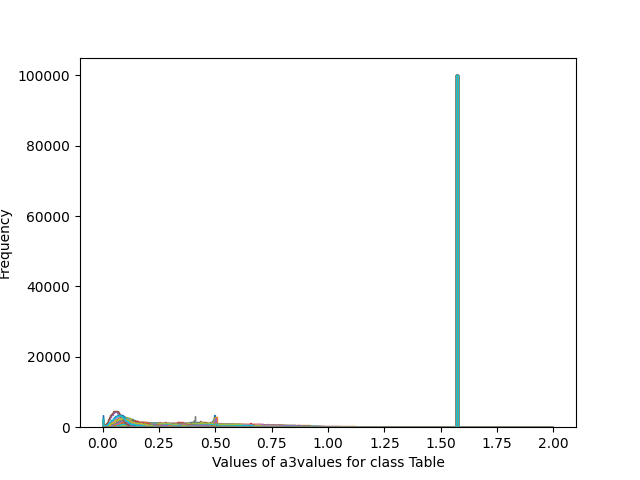
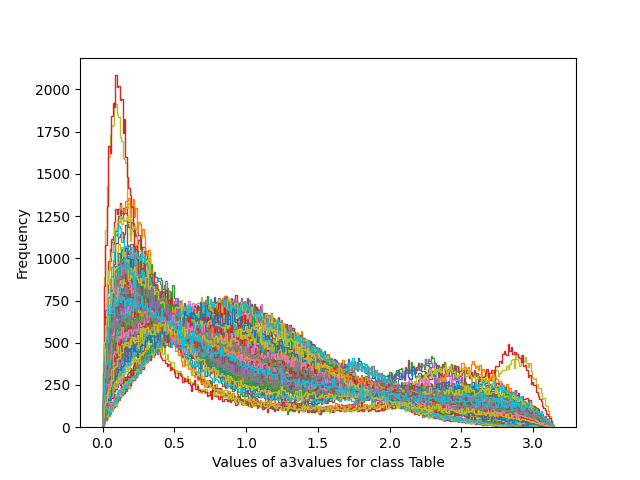
merged files, corrected a3, binned values

diff --git a/HistogramBinner.py b/HistogramBinner.py
@@ -2,65 +2,63 @@ import json
 import matplotlib.pyplot as plt
 import numpy as np
 import math
-
-path = "./database/histValues18.json"
-
-with open(path, 'r') as f:
-  data = json.load(f)
+from pathlib import Path
 
 
-d1values = np.array([x["d1"] for x in data])
-d2values = np.array([x["d2"] for x in data])
-d3values = np.array([x["d3"] for x in data])
-d4values = np.array([x["d4"] for x in data])
-a3values = np.array([x["a3"] for x in data])
-classes = [x["class"] for x in data]
 
-print(classes)
-print(np.max(d3values))
-#Perform so tests in order to check if the calculations were correct
-d1RangeCheck = (d1values >= 0) & (d1values <= 1)
-d2RangeCheck = (d2values >= 0) & (d2values <= np.sqrt(3))
-d3RangeCheck = (d3values >= 0) & (d3values <= (0.5*np.sqrt(2))) #the area spanning 2 corners and 1 corner in other edge diagonally
-d4RangeCheck = (d4values >= 0) & (d4values <= 1)
 
-print(d1RangeCheck.all())
-print(d2RangeCheck.all())
-# assert d3RangeCheck.all()
-print(d4RangeCheck.all())
+def binfeatures():
+    #a3 path (since a3 was broke in 1st computation this is solo a3)
+    path = './database/combinedValues.json'
+    nrbins = 10
+    binnedOutPut = []
+    with open(path, 'r') as f:
+        data = json.load(f)
+    
+    pathvalues = np.array([x["path"] for x in data])
+    d1values = np.array([x["d1"] for x in data])
+    d2values = np.array([x["d2"] for x in data])
+    d3values = np.array([x["d3"] for x in data])
+    d4values = np.array([x["d4"] for x in data])
+    a3values = np.array([x["a3"] for x in data])
+    classes = [x["class"] for x in data]
+    print(classes)
+    dbins = binvalues(0, 1, nrbins)
+    d2bin = binvalues(0, np.sqrt(3), nrbins)
+    a3bin = binvalues(0, math.pi, nrbins)
 
-class_name = classes[1]
-for x in range(len(d1values)):
-  plt.hist(d1values[x], range=(0, 1), bins=int(math.sqrt(len(d1values[x]))), histtype='step')
-  plt.xlabel(f"Values of d1values for class {class_name}") # TODO should e.g. be "D1"
-  plt.ylabel("Frequency")
-  plt.savefig(f"d1_{class_name}.png") # e.g. D1_Airplane.png
-#plt.show()  
+    #create bin nr instead of value.
+    d1binlist = np.digitize(d1values, dbins) -1
+    d2binlist = np.digitize(d2values, d2bin) -1
+    d3binlist = np.digitize(d3values, dbins) -1
+    d4binlist = np.digitize(d4values, dbins) -1
+    a3binlist = np.digitize(a3values, a3bin) -1
 
-for x in range(len(d2values)):
-  plt.hist(d2values[x], range=(0, np.sqrt(3)), bins=int(math.sqrt(len(d2values[x]))), histtype='step')
-  plt.xlabel(f"Values of d2values for class {class_name}") # TODO should e.g. be "D1"
-  plt.ylabel("Frequency")
-  plt.savefig(f"d2_{class_name}.png") # e.g. D2_Airplane.png
-#plt.show() 
+    #print(a3binlist)
+    for x in range(len(a3values)):
+        countValuesa3 = []
+        countvaluesd1 = []
+        countvaluesd2 = []
+        countvaluesd3 = []
+        countvaluesd4 = []
+        for bin in range(nrbins):
+            countValuesa3.append(np.count_nonzero(a3binlist[x] == bin))
+            countvaluesd1.append(np.count_nonzero(d1binlist[x] == bin))
+            countvaluesd2.append(np.count_nonzero(d2binlist[x] == bin))
+            countvaluesd3.append(np.count_nonzero(d3binlist[x] == bin))
+            countvaluesd4.append(np.count_nonzero(d4binlist[x] == bin))
+        binnedOutPut.append({"path": pathvalues[x], "class": classes[x], "d1": countvaluesd1, "d2": countvaluesd2, "d3": countvaluesd3, "d4": countvaluesd4, "a3": countValuesa3})
+    return binnedOutPut
 
-for x in range(len(d3values)):
-  plt.hist(d3values[x], range=(0, 1), bins=int(math.sqrt(len(d3values[x]))), histtype='step')
-  plt.xlabel(f"Values of d3values for class {class_name}") # TODO should e.g. be "D1"
-  plt.ylabel("Frequency")
-  plt.savefig(f"d3_{class_name}.png") # e.g. D3_Airplane.png
-#plt.show()  
+def binvalues(min,max, nrbins):
+    binlist = np.arange(min, (max+((max-min)/nrbins)), ((max-min)/nrbins))
+    return binlist
 
-for x in range(len(d4values)):
-  plt.hist(d4values[x], range=(0, 1), bins=int(math.sqrt(len(d4values[x]))), histtype='step')
-  plt.xlabel(f"Values of d4values for class {class_name}") # TODO should e.g. be "D1"
-  plt.ylabel("Frequency")
-  plt.savefig(f"d4_{class_name}.png") # e.g. D4_Airplane.png
-#plt.show()  
+def jsonPrint(binlist):
+    with open("./database/binnedHistValues.json", 'w') as output_file:
+        json.dump(binlist, output_file)
 
-for x in range(len(a3values)):
-  plt.hist(a3values[x], range=(0, 2), bins=int(math.sqrt(len(a3values[x]))), histtype='step')
-  plt.xlabel(f"Values of a3values for class {class_name}") # TODO should e.g. be "D1"
-  plt.ylabel("Frequency")
-  plt.savefig(f"a3_{class_name}.png") # e.g. a3_Airplane.png
-#plt.show() 
+if __name__ == "__main__":
+    binlist = binfeatures()
+    jsonPrint(binlist)
+    

diff --git a/HistogramGrapher.py b/HistogramGrapher.py
@@ -1,0 +1,68 @@
+import json
+import matplotlib.pyplot as plt
+import numpy as np
+import math
+from pathlib import Path
+
+pathList = list(Path('./database/').rglob('*.json'))
+for path in pathList:
+  with open(path, 'r') as f:
+    data = json.load(f)
+
+
+  #d1values = np.array([x["d1"] for x in data])
+  #d2values = np.array([x["d2"] for x in data])
+  #d3values = np.array([x["d3"] for x in data])
+  #d4values = np.array([x["d4"] for x in data])
+  a3values = np.array([x["a3"] for x in data])
+  classes = [x["class"] for x in data]
+  print(classes)
+  #Perform so tests in order to check if the calculations were correct
+  #d1RangeCheck = (d1values >= 0) & (d1values <= 1)
+  #d2RangeCheck = (d2values >= 0) & (d2values <= np.sqrt(3))
+  #d3RangeCheck = (d3values >= 0) & (d3values <= (0.5*np.sqrt(2))) #the area spanning 2 corners and 1 corner in other edge diagonally
+  #d4RangeCheck = (d4values >= 0) & (d4values <= 1)
+  #a3Rangecheck = (a3values >= 0) & (a3values <= math.pi)
+  
+  #print(d1RangeCheck.all())
+  #print(d2RangeCheck.all())
+  #print(d3RangeCheck.all())
+  #print(d4RangeCheck.all())
+  #print(a3RangeCheck.all())
+
+  class_name = classes[1]
+  for x in range(len(a3values)):
+    plt.hist(a3values[x], range=(0, math.pi), bins=int(math.sqrt(len(a3values[x]))), histtype='step')
+    plt.xlabel(f"Values of a3values for class {class_name}") # TODO should e.g. be "D1"
+    plt.ylabel("Frequency")
+    plt.savefig(f"a3_{class_name}.png") # e.g. a3_Airplane.png
+  #plt.show()
+'''
+  for x in range(len(d1values)):
+    plt.hist(d1values[x], range=(0, 1), bins=int(math.sqrt(len(d1values[x]))), histtype='step')
+    plt.xlabel(f"Values of d1values for class {class_name}") # TODO should e.g. be "D1"
+    plt.ylabel("Frequency")
+    plt.savefig(f"d1_{class_name}.png") # e.g. D1_Airplane.png
+  #plt.show()  
+
+  for x in range(len(d2values)):
+    plt.hist(d2values[x], range=(0, np.sqrt(3)), bins=int(math.sqrt(len(d2values[x]))), histtype='step')
+    plt.xlabel(f"Values of d2values for class {class_name}") # TODO should e.g. be "D1"
+    plt.ylabel("Frequency")
+    plt.savefig(f"d2_{class_name}.png") # e.g. D2_Airplane.png
+  #plt.show() 
+
+  for x in range(len(d3values)):
+    plt.hist(d3values[x], range=(0, 1), bins=int(math.sqrt(len(d3values[x]))), histtype='step')
+    plt.xlabel(f"Values of d3values for class {class_name}") # TODO should e.g. be "D1"
+    plt.ylabel("Frequency")
+    plt.savefig(f"d3_{class_name}.png") # e.g. D3_Airplane.png
+  #plt.show()  
+
+  for x in range(len(d4values)):
+    plt.hist(d4values[x], range=(0, 1), bins=int(math.sqrt(len(d4values[x]))), histtype='step')
+    plt.xlabel(f"Values of d4values for class {class_name}") # TODO should e.g. be "D1"
+    plt.ylabel("Frequency")
+    plt.savefig(f"d4_{class_name}.png") # e.g. D4_Airplane.png
+  #plt.show()  
+'''

diff --git a/FeatureExtractor.py b/FeatureExtractor.py
@@ -25,7 +25,7 @@ def extractFeatures(mesh_path):
     # features["eccentricity"] = getEccentricity(mesh)
 
     # The 5 distribution features on N=100000
-    num_samples = 100000
+    num_samples = 10
     points = np.array(mesh.sample_points_uniformly(
         number_of_points=num_samples).points)
 
@@ -35,8 +35,8 @@ def extractFeatures(mesh_path):
     d4Values = getD4(points)
     a3Values = getA3(points)
 
-    histDict = {"path": str(mesh_path), "class": QueryProcessor.getClassFromPath(
-        mesh_path), "d1": d1Values.tolist(), "d2": d2Values.tolist(), "d3": d3Values.tolist(), "d4": d4Values.tolist(), "a3": a3Values.tolist()}
+    histDict = {"path": str(mesh_path), "class": QueryProcessor.getClassFromPath(mesh_path), "d1": d1Values.tolist(), "d2": d2Values.tolist(), "d3": d3Values.tolist(), "d4": d4Values.tolist(), "a3": a3Values.tolist()}
+    #histDict = {"path": str(mesh_path), "class": QueryProcessor.getClassFromPath(mesh_path), "a3": a3Values.tolist()}
     #histDict = {"path": str(mesh_path), "class": QueryProcessor.getClassFromPath(mesh_path)}
 
     # features["d1"] = binned values
@@ -93,8 +93,7 @@ def getA3(points):
     line1 = randomPointPairs[:, 0, :] - randomPointPairs[:, 1, :]
     line2 = randomPointPairs[:, 2, :] - randomPointPairs[:, 1, :]
 
-    cosine_angle = np.sum(line1 * line2, axis=1) / \
-        (np.linalg.norm(line1) * np.linalg.norm(line2))
+    cosine_angle = np.sum(line1 * line2, axis=1) / (np.linalg.norm(line1, axis=1) * np.linalg.norm(line2, axis=1))
     return np.arccos(cosine_angle)
 
 

diff --git a/AddA3.py b/AddA3.py
@@ -1,0 +1,40 @@
+import json
+from attr import NOTHING
+import matplotlib.pyplot as plt
+import numpy as np
+import math
+from pathlib import Path
+
+
+def addA3Files():
+    path1 = './database/a3histValues.json'
+    path2 = './database/disthistValues.json'
+
+    
+    with open(path1, 'r') as f:
+        data1 = json.load(f)
+    
+    with open(path2, 'r') as g:
+        data2 = json.load(g)
+
+    pathvaluesa3 = np.array([x["path"] for x in data1])
+    a3values = np.array([x["a3"] for x in data1])
+    classes = [x["class"] for x in data1]
+
+    pathvaluesdist = np.array([x["path"] for x in data2])
+    d1values = np.array([x["d1"] for x in data2])
+    d2values = np.array([x["d2"] for x in data2])
+    d3values = np.array([x["d3"] for x in data2])
+    d4values = np.array([x["d4"] for x in data2])
+
+    binnedOutPut=[]
+    for path1 in range(len(pathvaluesa3)):
+        #print(pathvaluesa3[path1])
+        for path2 in range(len(pathvaluesdist)):
+            if pathvaluesa3[path1] == pathvaluesdist[path2]:
+                binnedOutPut.append({"path": pathvaluesa3[path1], "class": classes[path1], "d1": d1values[path2].tolist(), "d2": d2values[path2].tolist(), "d3": d3values[path2].tolist(), "d4": d4values[path2].tolist(), "a3": a3values[path1].tolist()})
+    with open("./database/combinedValues.json", 'w') as output_file:
+        json.dump(binnedOutPut, output_file)            
+
+if __name__ == "__main__":
+    addA3Files()

diff --git a/JsonCombine.py b/JsonCombine.py
@@ -1,0 +1,23 @@
+import json
+import matplotlib.pyplot as plt
+import numpy as np
+import math
+from pathlib import Path
+
+
+def mergeFiles():
+    pathList = list(Path('./database/').rglob('*.json'))
+    merge_JsonFiles(pathList)
+
+def merge_JsonFiles(files):
+    result = list()
+    for file in files:
+        with open(file, 'r') as infile:
+            result.extend(json.load(infile))
+
+    with open("./database/histValues.json", 'w') as output_file:
+        json.dump(result, output_file)
+
+
+if __name__ == "__main__":
+    mergeFiles()
